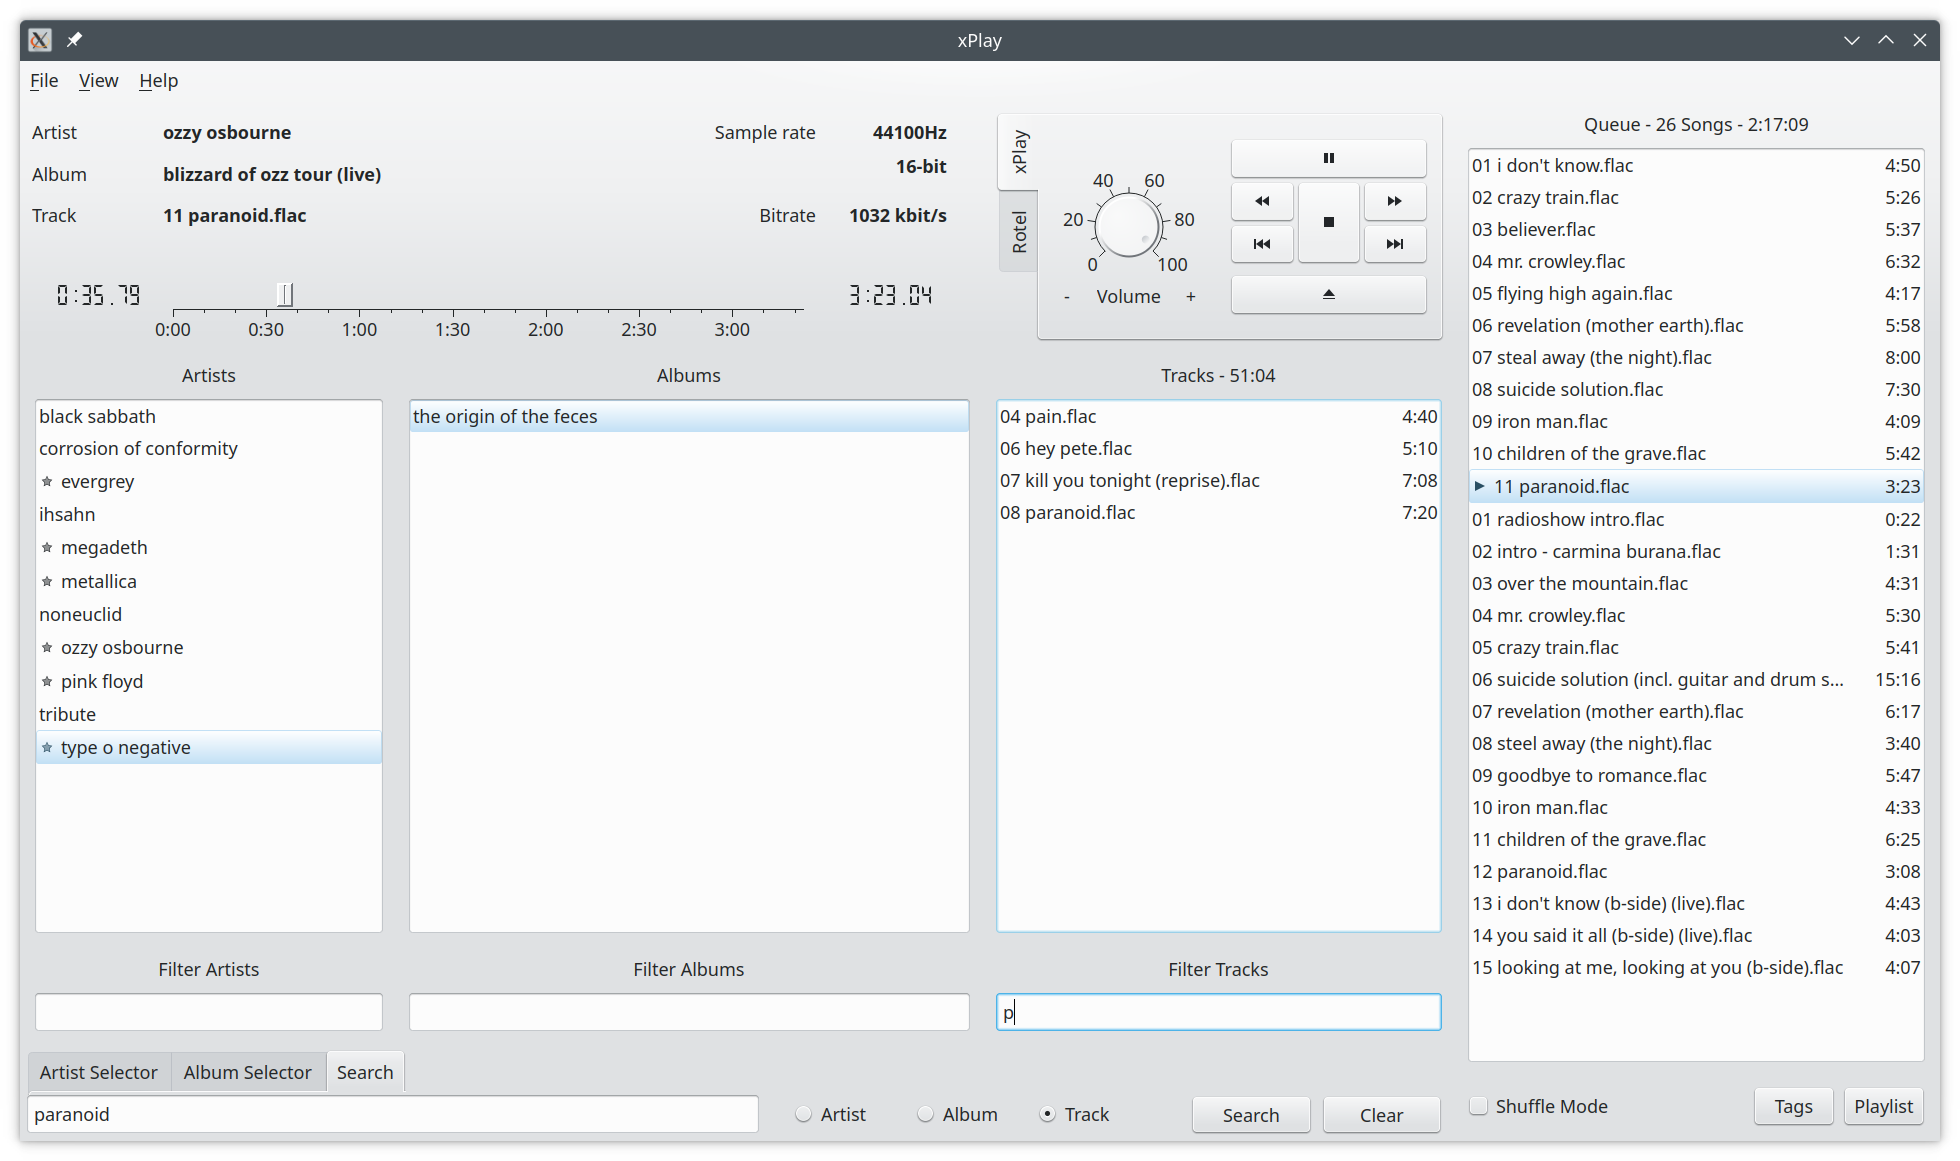
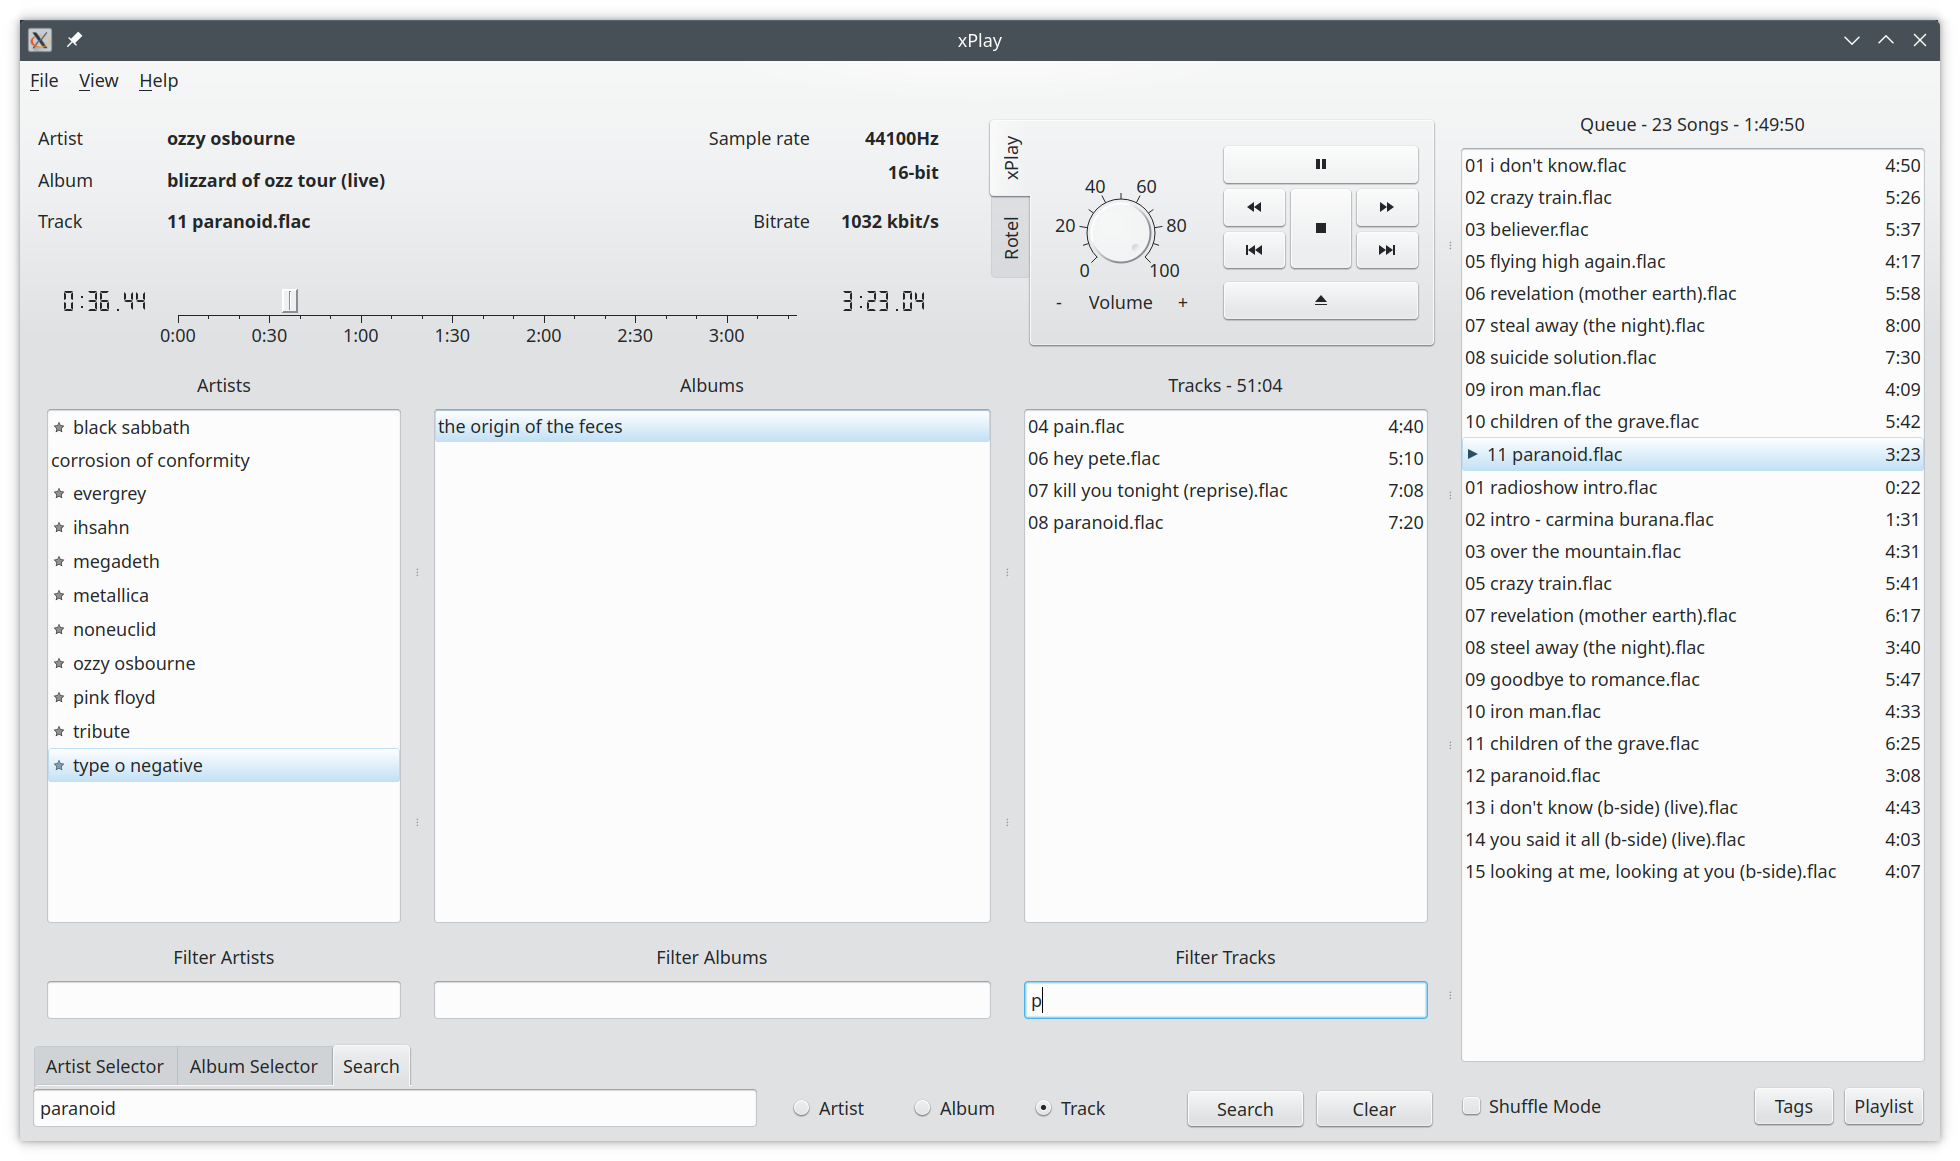
Update README.md, CHANGELOG.md and screenshots.

diff --git a/README.md b/README.md
@@ -46,9 +46,10 @@ directories. The scanning is so fast that there is no need for a database of sca
 therefore can be performed each time on startup. The music view is updated after this initial scan
 is complete. The files (tracks) within "artist/album" will only be scanned on demand and cached, if an
 artist and corresponding album have been selected. The music library scan continues in the background in
-order to fill the "artist/ablum" file (tracks) cache. The tracks itself will initially not be scanned or analyzed
+order to fill the "artist/album" file (tracks) cache. The tracks itself will initially not be scanned or analyzed
 in order to retrieve any media tags. They will only be analyzed if necessary. Until then only the file names are
-of interest.
+of interest. xPlay does support remote access to BluOS player libraries. The Player itself has to be fully configured
+and the folder structure for its library has to match the artist/album/track structure.
 
 *Note:* The initial scan takes only a few seconds for my setup (Raspberry Pi 4 as Samba server).
 
@@ -79,6 +80,11 @@ The volume changes are applied to the default PulseAudio sink, not to the xPlay 
 is muted then the PulseAudio sink and the application stream are both muted. The volume for the application stream
 is set to a 100 percent.
 
+### BluOS player
+
+BluOS does not support moving files within the playlist. Drag and drop within the queue is therefor disabled if a
+BluOS player library is used. The volume changes are applied to the BluOS player volume, not the PulseAudio sink.
+
 ## Usage
 
 xPlay has a simple and easy to use UI interface that provides the set on functionalities that I expect from a
@@ -100,6 +106,7 @@ xPlay has a music view, a movie view, a streaming view and a mobile sync view.
 ![Screenshot Music View (artistinfo)](screenshots/xplay_screenshot_music_view_08.png)
 ![Screenshot Music View (visualization)](screenshots/xplay_screenshot_music_view_09.png)
 ![Screenshot Music View (rename)](screenshots/xplay_screenshot_music_view_10.png)
+![Screenshot Music View (bluos)](screenshots/xplay_screenshot_music_view_11.png)
 
 The main screen of the music view has four vertical list for the artists, album, tracks and the queue. The
 album list is updated if you click (or select) on an artist and the track list is updated if you click (or select)
@@ -118,12 +125,14 @@ playlists (including their entries).
 The database overlay (if activated) marks every artist, album and track with a star (*) if it has been played within the
 configured time period (see configuration dialog). For each track a tooltip is added that shows how many times this
 track has been played and the last time it was played. The overlay makes it easier to identify music that you have not
-listen too in some time or at all.
+listened too in some time or at all.
 
-The player itself displays the artist, album and track currently played. It includes a slider to seek within the
-currently played file. In addition, there is player control section with a *play/pause*, *stop*, *prev*, *next*
-and *clear queue* buttons and a volume dialer. If you double-click on an entry of the queue then the player jumps
-to this track. Right-clicking on a queue entry will remove this track from the queue.
+The player itself displays the artist, album and track currently played. Additional information such as sample rate, 
+bits per sample and bitrate are only displayed for local music libraries. BluOS does not provide access to this
+information. It includes a slider to seek within the currently played file. In addition, there is player control 
+section with a *play/pause*, *stop*, *prev*, *next* and *clear queue* buttons and a volume dialer. If you 
+double-click on an entry of the queue then the player jumps to this track. Right-clicking on a queue entry will 
+remove this track from the queue.
 
 The artist popup menu can be accessed through a context menu by a right-click on an entry in the artist list. The 
 menu entry *Link To Website* leads to the artist info which is a small simple web browser with minimal navigational 
@@ -155,7 +164,8 @@ A music visualization based on projectM is available and can be activated via th
 the artist info view is currently not activated. The visualization (when displayed) reverts to the artist, album and
 track view whenever the music player pauses or stops. A right-click on the visualization opens a popup menu that allows
 selecting a projectM preset. A double-click will display the name of the currently selected preset. A double-click on
-the player widget itself will toggle the music visualization.
+the player widget itself will toggle the music visualization. The music visualization is not supported for the
+BluOS player music library.
 
 #### Selectors and Filters
 
@@ -323,6 +333,8 @@ and the KDE 5.x breeze icons.
 * Qwt 6.x for Qt5 (http://qwt.sf.net)
 * SQLite3 - The Database Access Library (https://sqlite.org/)
 * TagLib Audio Meta-Data Library (https://taglib.org/)
+* libcurl Library (https://curl.se/libcurl/)
+* PugiXML Library (https://pugixml.org/)
 * libVLC Library (https://wiki.videolan.org/LibVLC/)
 * libpulse Library (https://freedesktop.org/software/pulseaudio/doxygen)
 * projectM Library (https://github.com/projectM-visualizer/projectm)

diff --git a/CHANGELOG.md b/CHANGELOG.md
@@ -3,6 +3,7 @@
 
 ## Unreleased
 
+- Add support for BluOS player libraries.
 - Add mobile library IO for mobile sync view.
 - Add improved sync functionality to music library.
 - Add jump to artist if hovered over selector while ctrl is pressed.
